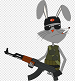
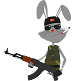
them anh xoa phong

diff --git a/sung.js b/sung.js
@@ -1,15 +1,15 @@
 let c = document.getElementById("myCanvas");
 let ctx = c.getContext('2d');
-const bazooka =  "BAZOOKA.jpg";
-const cheytac = "CHEYTAC.jpg";
-const anaconda = "ANACONDA.jpg";
-const fnscar = "FNSCAR.jpg";
-const ak47 = "AK47.jpg";
-const bazookaBan =  "BAZOOKAban.jpg";
-const cheytacBan = "CHEYTACban.jpg";
-const anacondaBan = "ANACONDAban.jpg";
-const fnscarBan = "FNSCARban.jpg";
-const ak47Ban = "AK47ban.jpg";
+const bazooka =  "BAZOOKA.png";
+const cheytac = "CHEYTAC.png";
+const anaconda = "ANACONDA.png";
+const fnscar = "FNSCAR.png";
+const ak47 = "AK47.png";
+const bazookaBan =  "BAZOOKAban.png";
+const cheytacBan = "CHEYTACban.png";
+const anacondaBan = "ANACONDAban.png";
+const fnscarBan = "FNSCARban.png";
+const ak47Ban = "AK47ban.png";
 const positionX1 = 0;
 const positionY1 = 0;
 let capacity1 = 1000;
@@ -27,7 +27,7 @@ let Weapons = function () {
     this.positionY = positionY1;
     this.speed = 5;
     this.sizeBulletX1 = 50;
-    this.sizeBulletX2 = -40;
+    this.sizeBulletX2 = -30;
     this.drawWeapon = function () {
         let image = new Image();
         image.src = this.type;
@@ -50,7 +50,7 @@ let Weapons = function () {
         this.capacity = capacity1;
         this.speed = 5;
         this.sizeBulletX1 = 50;
-        this.sizeBulletX2 = -40;
+        this.sizeBulletX2 = -30;
     };
     this.changeto2 = function () {
         this.type = ak47;
@@ -59,7 +59,7 @@ let Weapons = function () {
         this.capacity = capacity2;
         this.speed = 3;
         this.sizeBulletX1 = 50;
-        this.sizeBulletX2 = -40;
+        this.sizeBulletX2 = -30;
     };
     this.changeto3 = function () {
         this.type = fnscar;
@@ -91,7 +91,7 @@ let Weapons = function () {
     this.fire = function () {
         let a = 0;
         if (this.type === anaconda || this.type === anacondaBan)
-            a = this.positionY + 10;
+            a = this.positionY + 11;
         if (this.type === ak47 || this.type === ak47Ban)
             a = this.positionY + 10;
         if (this.type === fnscar || this.type === fnscarBan)
@@ -99,8 +99,8 @@ let Weapons = function () {
         if (this.type === cheytac || this.type === cheytacBan)
             a = this.positionY + 20;
         if (this.type === bazooka || this.type === bazookaBan)
-            a = this.positionY + 25;
-        let bullet = new Bullet(this, this.positionX + 100, a);
+            a = this.positionY + 26;
+        let bullet = new Bullet(this, this.positionX + 150, a);
          bullets.push(bullet);
     }
 };

diff --git a/Operator.js b/Operator.js
@@ -19,15 +19,15 @@ function moveEnermy() {
             flag = 0;
         }
     }
-    if ( dich.positionY > 70  && dich.positionY < 73 ||
-         dich.positionY > 141 && dich.positionY < 143 ||
-         dich.positionY > 287  && dich.positionY < 289 ||
-         dich.positionY > 395 && dich.positionY < 397 ||
-         dich.positionY > 30 && dich.positionY < 33 ||
-         dich.positionY > 210 && dich.positionY <212 )
-        dich.fire();
+    enemyFire();
 
     requestAnimationFrame(moveEnermy);
+}
+
+function enemyFire () {
+    dich.reloadCount++;
+    if ( dich.reloadCount >= dich.reloadTime ) {dich.fire();dich.reloadCount = 0}
+
 }
 
 function checkImpact(gun,bullet,enermy) {
@@ -157,6 +157,7 @@ function move(event) {
         case 32: {
             if (capacity1 > 0)
             if (sung.type === anaconda || sung.type === anacondaBan)  {
+                sung.positionX = 12;
                 sung.type = anacondaBan;
                 sung.fire();
             }
@@ -185,7 +186,7 @@ function move(event) {
                 sung.fire()
             }
 
-            if (sung.type === anaconda  || sung.type === anacondaBan )
+            if (sung.type === anaconda || sung.type === anacondaBan)
                 if (capacity1 > 0) capacity1--;
             if (sung.type === ak47 || sung.type === ak47Ban)
                 if (capacity2 > 0) capacity2--;

diff --git a/enermy.js b/enermy.js
@@ -1,13 +1,13 @@
 let e = document.getElementById("myCanvas");
 let etx = e.getContext('2d');
 let enermyBullets =[];
-const enermy1 = "dich1.jpg";
-const enermy2 = "dich2.jpg";
-const enermy3 = "dich3.jpg";
-const enermy4 = "dich4.jpg";
-const enermy5 = "dich5.jpg";
-const enermy6 = "dich6.jpg";
-const enermy7 = "dich7.jpg";
+const enermy1 = "dich1.png";
+const enermy2 = "dich2.png";
+const enermy3 = "dich3.png";
+const enermy4 = "dich4.png";
+const enermy5 = "dich5.png";
+const enermy6 = "dich6.png";
+const enermy7 = "dich7.png";
 const enermy8 = "dich8.png";
 let hp1 = 20;
 let hp2 = 30;
@@ -24,6 +24,8 @@ let Enermy = function () {
     this.positionY = 0;
     this.sizeY1 = 30;
     this.sizeY2 = 160;
+    this.reloadTime = 60;
+    this.reloadCount = 0;
     this.drawEnermy = function () {
         let image = new Image();
         image.src = this.type;

diff --git a/dandich.js b/dandich.js
@@ -1,10 +1,10 @@
 let f = document.getElementById("myCanvas");
 let ftx = f.getContext("2d");
 const BULLETENERMY = "dandich.jpg";
-const GRENADE = "luudan.jpg";
-const KNIVE = "dao.jpg";
+const GRENADE = "luudan.png";
+const KNIVE = "dao.png";
 let EnermyBullet = function (enermy) {
-    this.type = KNIVE;
+    this.type = BULLETENERMY;
     this.positionX = enermy.positionX;
     this.positionY = enermy.positionY ;
     this.drawEnermyBullet = function () {
